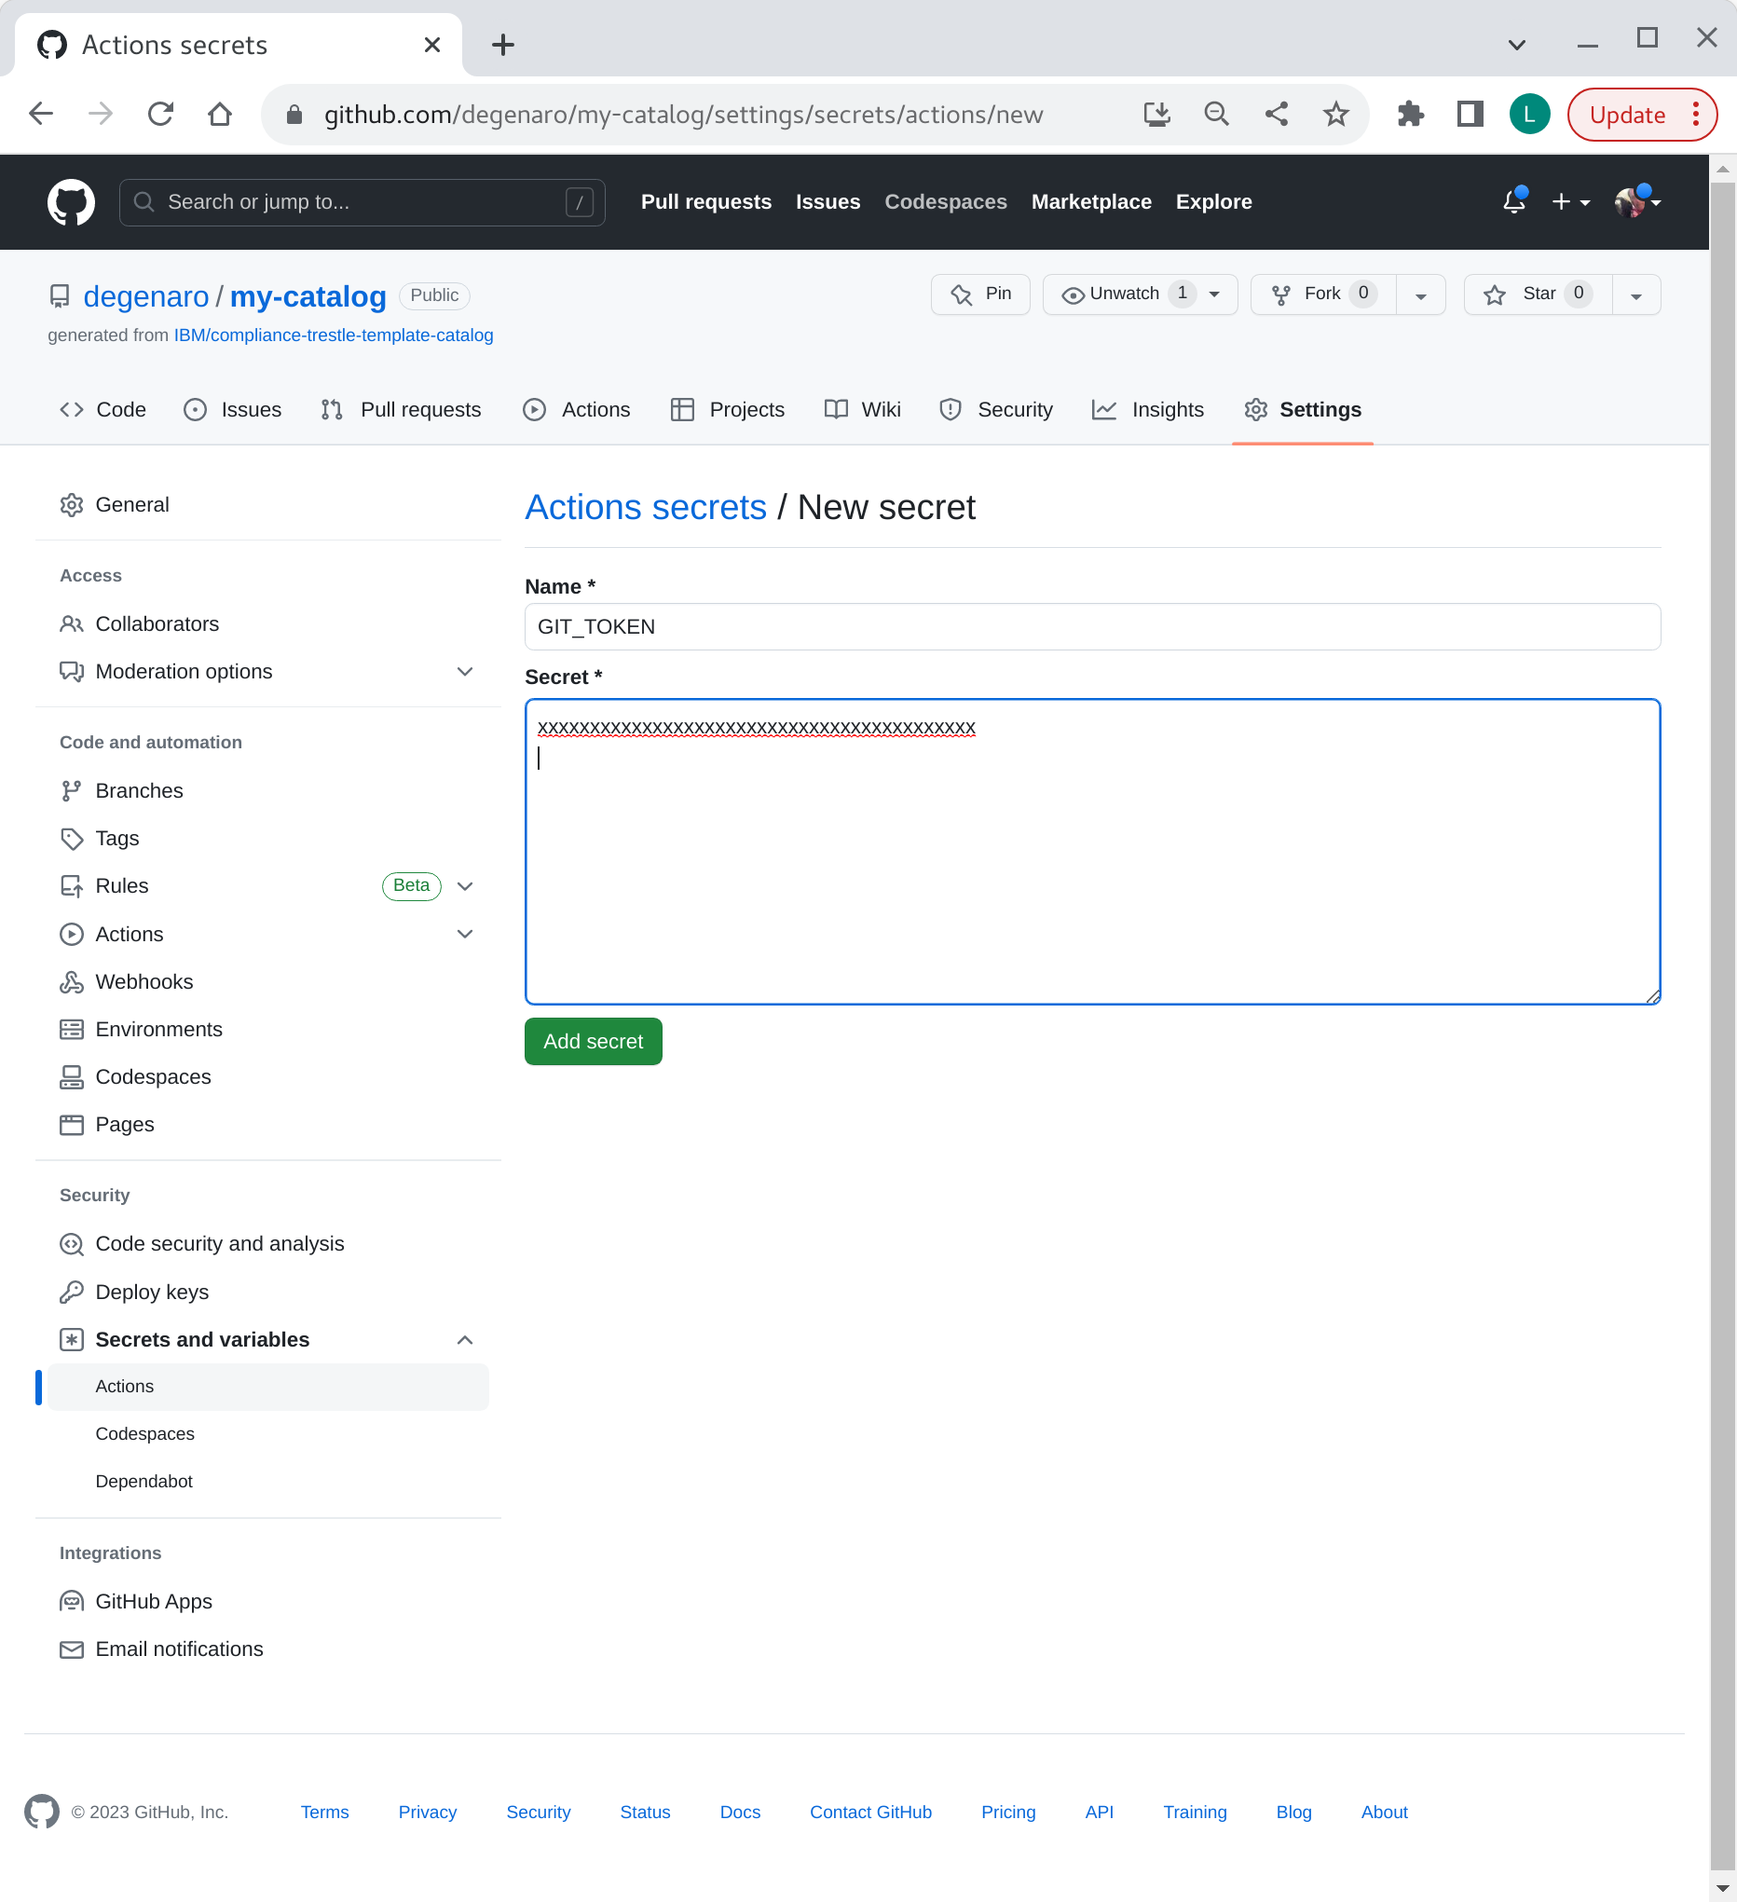
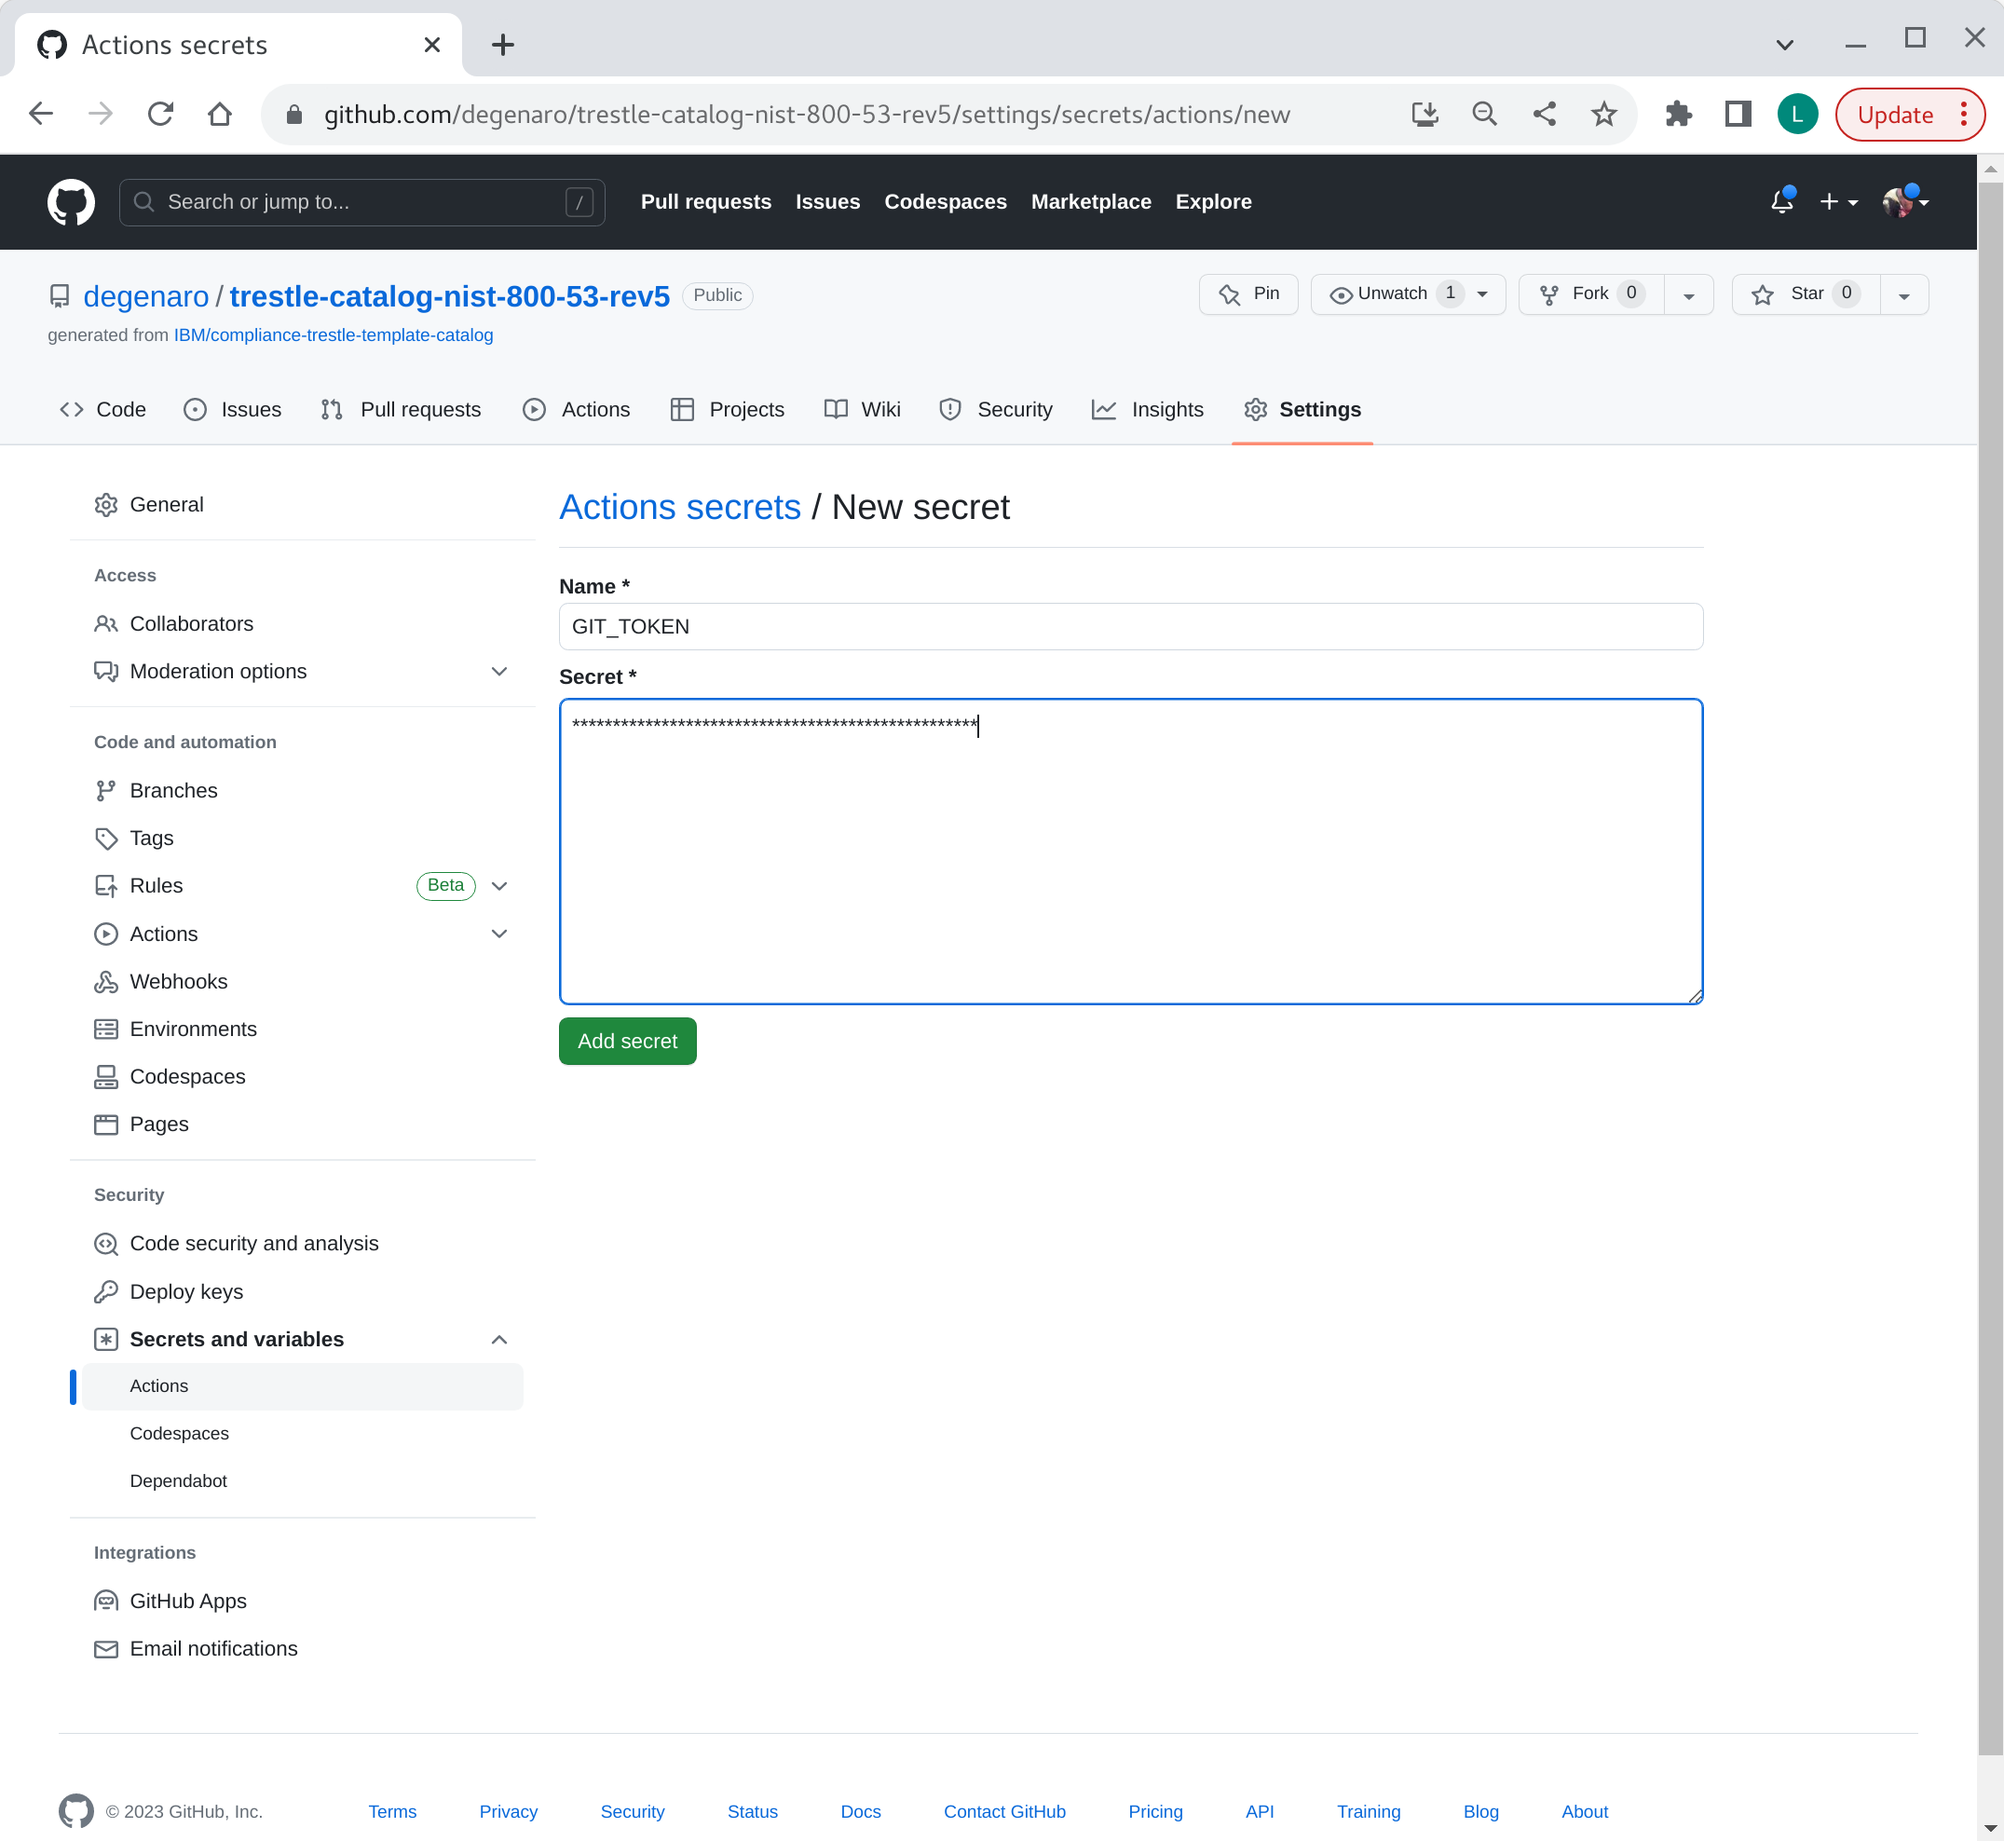
WIP

diff --git a/README.md b/README.md
@@ -39,59 +39,73 @@ Tutorials and templates are provided to set up agile authoring for each of the f
 ![onetime-setup](./drawio/onetime-setup.drawio.png)
 
 Described below is how to create agile authoring repos from templates.
-A template repo (1) is use to create an pre-populated repo (2) which is then customized (3).
+A template repo is use to create a ready-to-configure repo which is then customized.
 
-##### prereqs
+##### Prerequisites
 
-- [gh](https://github.com/cli/cli#github-cli) is installed
-- `gh auth login` has been performed
-
-
-```
-$ gh status
-To get started with GitHub CLI, please run:  gh auth login
-Alternatively, populate the GH_TOKEN environment variable with a GitHub API authentication token.
-```
-
-##### GIT repo - catalog
-
-Create your `catalog` repo from the agile authoring template.
-Issue the below command, substitute for `my-catalog` with your desired repo name.
-
-```
-$ gh repo create my-catalog --template https://github.com/IBM/compliance-trestle-template-catalog --public
-```
-
-<details>
-<summary>console</summary>
-Created repository degenaro/my-catalog on GitHub
-</details>
-
-###### customize the repo settings
+- A GitHub token with `workflow` checked has been created
 
 Create (or use existing) token. 
 Browser navigate [here](https://github.com/settings/tokens).
-Be sure token has `workflow` checked.
 
 <details>
 <summary>token creation</summary>
 <img src="images/token-create.png" width="500" height="600">
 </details>
 
-Install token (from above) in your newly created `my-catalog` repo.
-Browser navigate `my-catalog` repo:
+##### GIT repo - catalog
 
-Settings -> Secrets and variables -> Actions
+Create your `catalog` repo from the agile authoring template.
+
+Follow the instructions for [creating-a-repository-from-a-template](https://docs.github.com/en/repositories/creating-and-managing-repositories/creating-a-repository-from-a-template) to create a new repository from template.
+
+Use the [compliance-trestle-template-catalog](https://github.com/IBM/compliance-trestle-template-catalog) as your template.
+
+Choose a repo name and description, for example:
+- Repository name `trestle-catalog-nist-800-53-rev5`
+- Description `trestle-catalog-nist-800-53-rev5`
+
+###### Customize the catalog repo settings
+
+Install token (from prereqs above) in your newly created `trestle-catalog-nist-800-53-rev5` repo.
+
+Navigate to the newly created `trestle-catalog-nist-800-53-rev5` repo, then use path:
+
+*Settings -> Secrets and variables -> Actions -> New repository secret*
 
 Add repository secret name GIT_TOKEN with token value.
+
+*-> Add secret*
 
 <details>
 <summary>token add to repo</summary>
 <img src="images/token-catalog.png" width="500" height="600">
 </details>
 
-###### checkout the repo
+###### Add catalog to repo
+
+- Download the NIST 800-53 Rev 5 catalog to your workstation (laptop)
+
+```
+$ mkdir -p download/NIST_SP-800-53_rev5
+$ cd download/NIST_SP-800-53_rev5
+$ wget https://raw.githubusercontent.com/usnistgov/oscal-content/main/nist.gov/SP800-53/rev5/json/NIST_SP-800-53_rev5_catalog.json
+$ mv NIST_SP-800-53_rev5_catalog.json catalog.json
+```
+
+- Put the NIST 800-53 Rev 5 catalog into your repo by dragging folder `NIST_SP-800-53_rev5/catalog.json` to the repo in the browser.
+
+<details>
+<summary>add catalog</summary>
+<img src="images/add-catalog.png" width="500" height="600">
+</details>
+
+*-> Commit changes*
+
 ###### customize the automation scripts
+
+TBD 
+
 ###### install the initial OSCAL catalog (in json format)
 
 The catalog repo is now ready for agile authoring!
